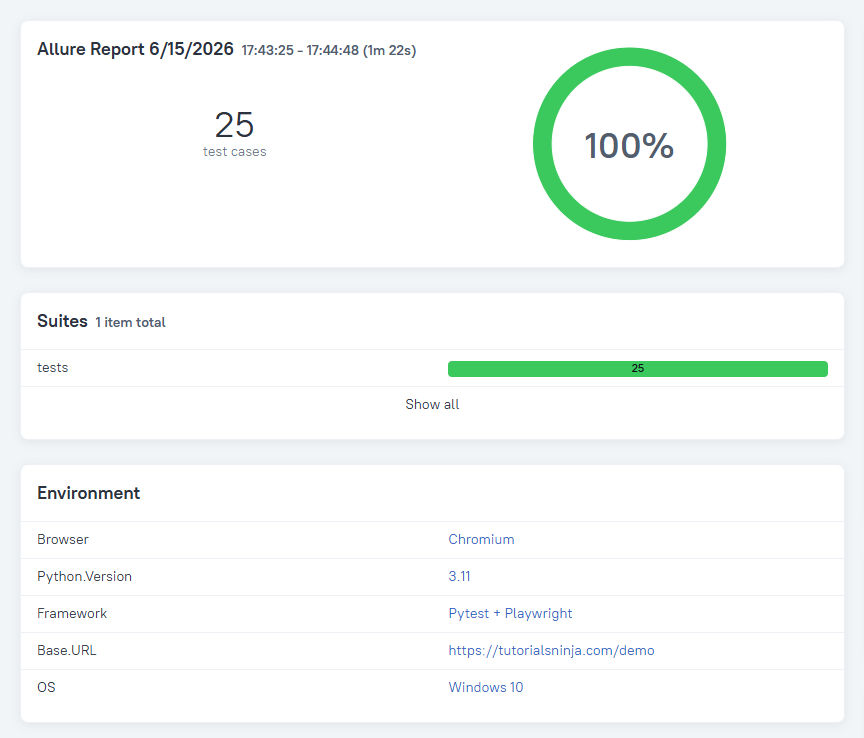
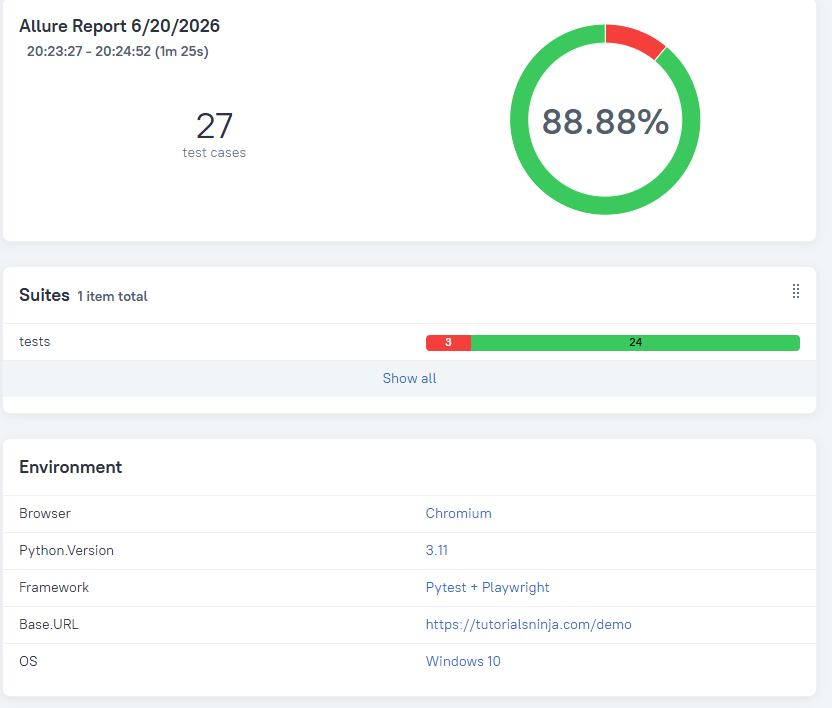
Update README and Allure screenshot to reflect current test results (24/27)

diff --git a/README.md b/README.md
@@ -4,7 +4,7 @@
 ![Playwright](https://img.shields.io/badge/Playwright-Automation-green?logo=playwright&logoColor=white)
 ![Pytest](https://img.shields.io/badge/Pytest-Framework-orange?logo=pytest&logoColor=white)
 ![Allure](https://img.shields.io/badge/Allure-Reports-purple)
-![Tests](https://img.shields.io/badge/Tests-25%20Passed-brightgreen)
+![Tests](https://img.shields.io/badge/Tests-24%2F27%20Passed-brightgreen)
 
 An end-to-end test automation framework for the [TutorialsNinja demo store](https://tutorialsninja.com/demo/index.php), built with **Python**, **Playwright** and **Pytest** using the **Page Object Model (POM)** design pattern.
 
@@ -22,7 +22,8 @@ An end-to-end test automation framework for the [TutorialsNinja demo store](http
 - 🔦 **Element highlighting** on interaction for easy visual debugging
 - ⚙ **Centralized configuration** via `config.ini`
 - 📊 **Allure Reports** — detailed test reports with environment info
-- 🧪 **25 automated tests** covering: login, cart, products, search, wish list, contact, user registration and account details
+- 🧪 **27 automated tests** covering: login, cart, products, search, wish list, contact, user registration and account details
+- 🐛 **Found a real validation bug** on the site (invalid name/lastname/phone are accepted instead of rejected)
 
 ---
 
